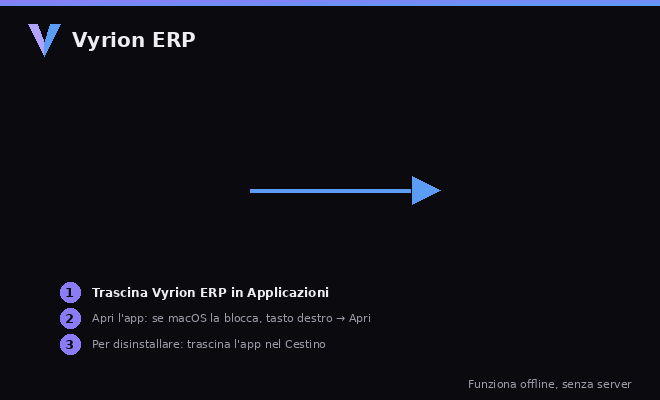
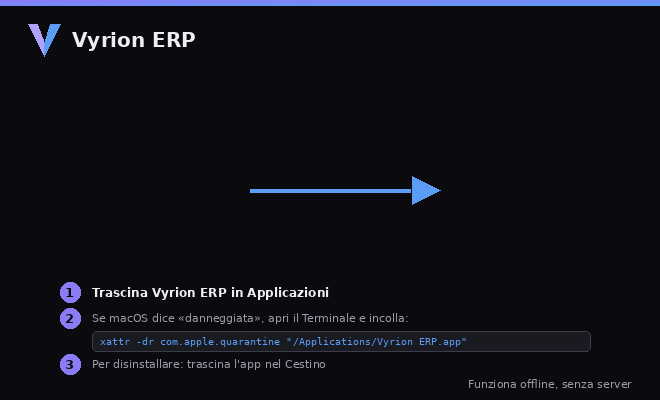
docs(installer): show the quarantine command in the macOS disk image
Claude-Session: https://claude.ai/code/session_01KjqaGUbpZ8P9Nkq5WShh5Y

Changed region(s): [[0.0909, 0.84, 0.697, 0.96], [0.1212, 0.78, 0.6061, 0.81]]

diff --git a/tools/installer-assets/generate.py b/tools/installer-assets/generate.py
@@ -98,14 +98,18 @@ def dmg() -> None:
     f_b, f_s = font(BOLD, 13), font(FONTS, 11)
     steps = [
         ("1", "Trascina Vyrion ERP in Applicazioni"),
-        ("2", "Apri l'app: se macOS la blocca, tasto destro \u2192 Apri"),
+        ("2", "Se macOS dice \u00abdanneggiata\u00bb, apri il Terminale e incolla:"),
         ("3", "Per disinstallare: trascina l'app nel Cestino"),
     ]
     for i, (n, text) in enumerate(steps):
-        y = 292 + i * 26
+        y = 292 + i * 26 + (20 if i == 2 else 0)
         d.ellipse((60, y - 10, 80, y + 10), fill=ACCENT_A)
         d.text((70, y), n, font=f_b, fill=BG, anchor="mm")
         d.text((92, y), text, font=f_s if i else font(BOLD, 12), fill=TEXT if i == 0 else MUTED, anchor="lm")
+    # the command, in a box under step 2 (the app is not notarized by Apple)
+    cmd = 'xattr -dr com.apple.quarantine "/Applications/Vyrion ERP.app"'
+    d.rounded_rectangle((92, 331, 590, 351), radius=5, fill=(26, 26, 33), outline=(60, 60, 75))
+    d.text((100, 341), cmd, font=font(["/usr/share/fonts/truetype/dejavu/DejaVuSansMono.ttf"] + FONTS, 10), fill=ACCENT_B, anchor="lm")
     d.text((w - 28, h - 16), "Funziona offline, senza server", font=f_s, fill=MUTED, anchor="rm")
     # arrow between the app icon (x=180) and the Applications folder (x=480)
     d.line((250, 190, 410, 190), fill=ACCENT_B, width=4)

diff --git a/CHANGELOG.md b/CHANGELOG.md
@@ -7,6 +7,8 @@ Formato basato su [Keep a Changelog](https://keepachangelog.com/it/1.1.0/); vers
 
 ### Changed
 
+- **DMG macOS:** lo sfondo mostra il comando da incollare nel Terminale se macOS dice «danneggiata»
+  (l'app è firmata ma non notarizzata da Apple, e il browser aggiunge la quarantena al download).
 - **Configurazione dell'azienda in un secondo momento.** All'avvio non c'è più la schermata
   obbligatoria: tutti i moduli sono subito utilizzabili e un avviso (con «Completa ora») ricorda
   di inserire i dati aziendali, necessari solo per emettere documenti.
